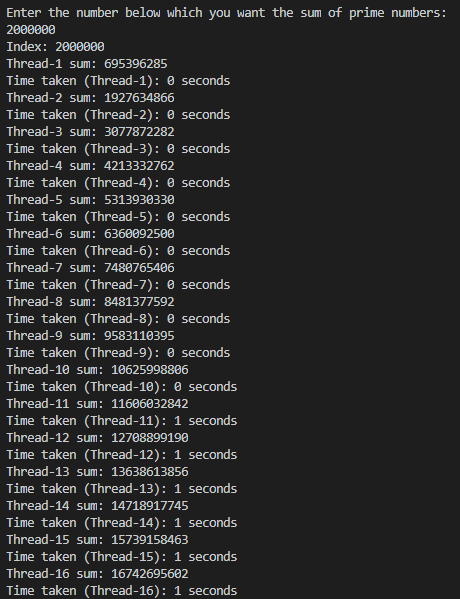
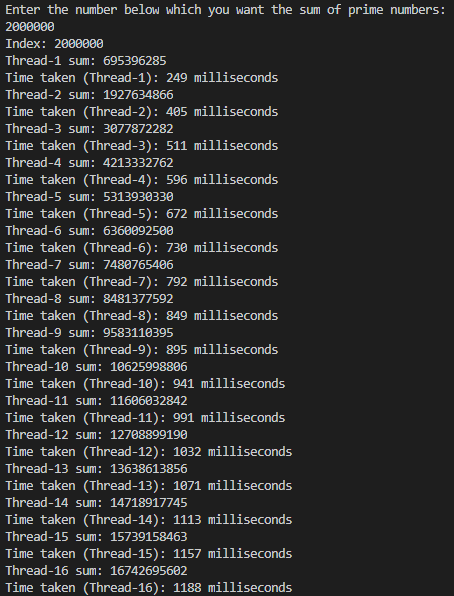
Updated 10

Changed region(s): [[0.0, 0.0, 0.9868, 0.9966]]

diff --git a/1-10/10/RunnableThread.java b/1-10/10/RunnableThread.java
@@ -23,7 +23,7 @@ public class RunnableThread implements Runnable {
             Duration timeElapsed = Duration.between(start, end);
             
             System.out.println(threadName + " sum: " + sum);
-            System.out.println("Time taken (" + threadName + "): " + timeElapsed.toMillis()/1000 +" seconds");
+            System.out.println("Time taken (" + threadName + "): " + timeElapsed.toMillis() +" milliseconds");
         }
         finally {}
         // System.out.println("Thread " +  threadName + " exiting.");
